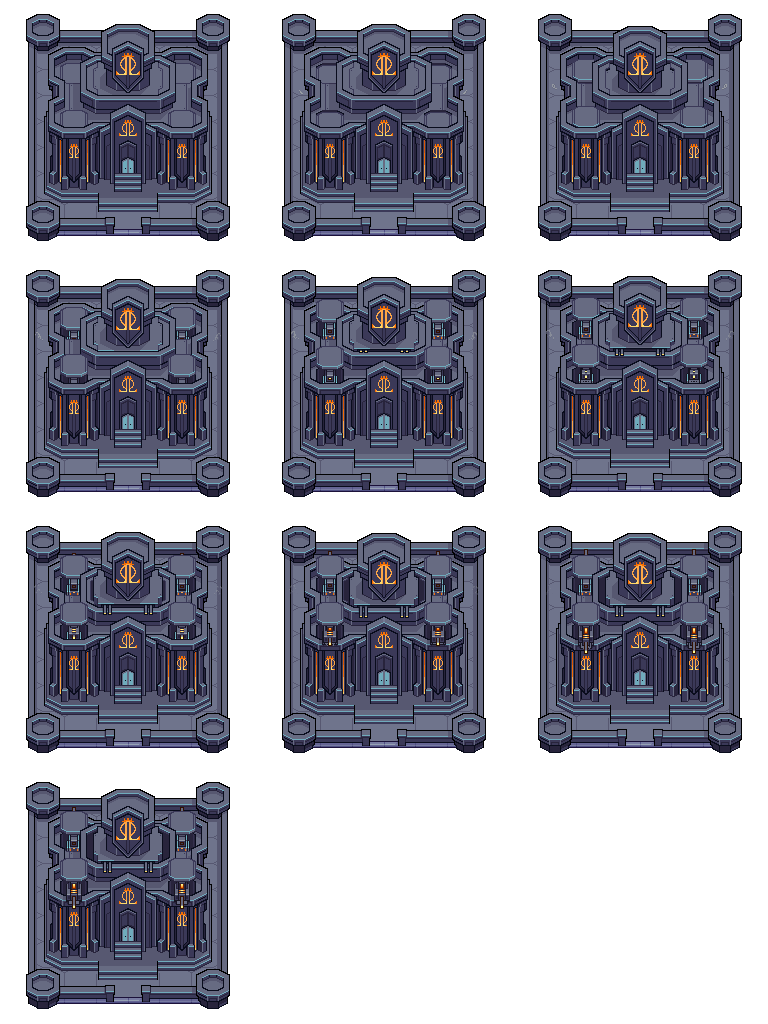
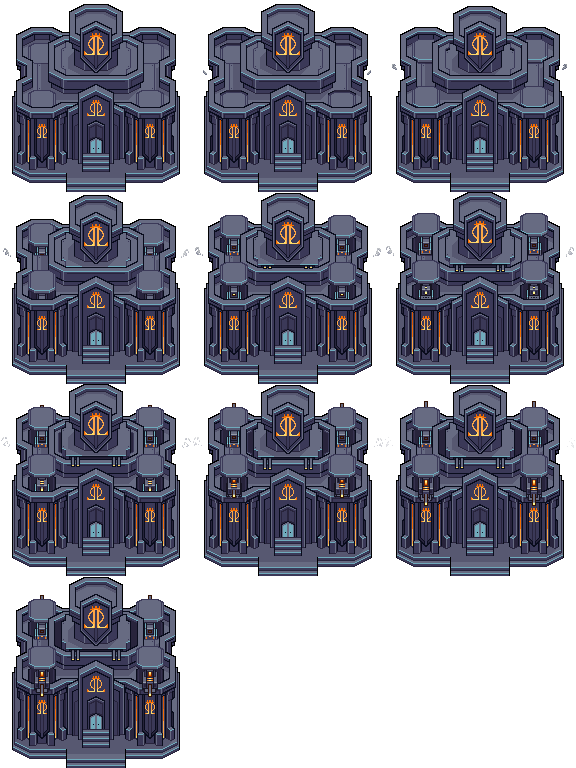
lords no reverse yet

diff --git a/client/src/lib/tokens/LORDS.ts b/client/src/lib/tokens/LORDS.ts
@@ -3,8 +3,59 @@ export const LORDS = {
   icon: '/tokens/LORDS/lords.png',
   biome: { x: 3, y: 1 },
   building: {
-    1: { x: 0, y: 0, useAnimation: false },
-    2: { x: 0, y: 1, useAnimation: false },
-    3: { x: 0, y: 2, useAnimation: false },
+    1: {
+      x: 0,
+      y: 0,
+      useAnimation: true,
+      animations: [
+        {
+          url: '/tokens/LORDS/1-animated.png',
+          type: 'rowColumn',
+          width: 3,
+          height: 4,
+          animations: [
+            { name: 'idle', frameRange: [0, 9] }
+          ],
+          bottomPadding: 15,
+          scale: 0.8,
+        },
+      ],
+    },
+    2: {
+      x: 0,
+      y: 1,
+      useAnimation: true,
+      animations: [
+        {
+          url: '/tokens/LORDS/2-animated.png',
+          type: 'rowColumn',
+          width: 3,
+          height: 4,
+          animations: [
+            { name: 'idle', frameRange: [0, 9] }
+          ],
+          bottomPadding: 10,
+          scale: 0.8,
+        },
+      ],
+    },
+    3: {
+      x: 0,
+      y: 2,
+      useAnimation: true,
+      animations: [
+        {
+          url: '/tokens/LORDS/3-animated.png',
+          type: 'rowColumn',
+          width: 3,
+          height: 4,
+          animations: [
+            { name: 'idle', frameRange: [0, 9] }
+          ],
+          bottomPadding: 10,
+          scale: 0.8,
+        },
+      ],
+    },
   },
 } as const;
